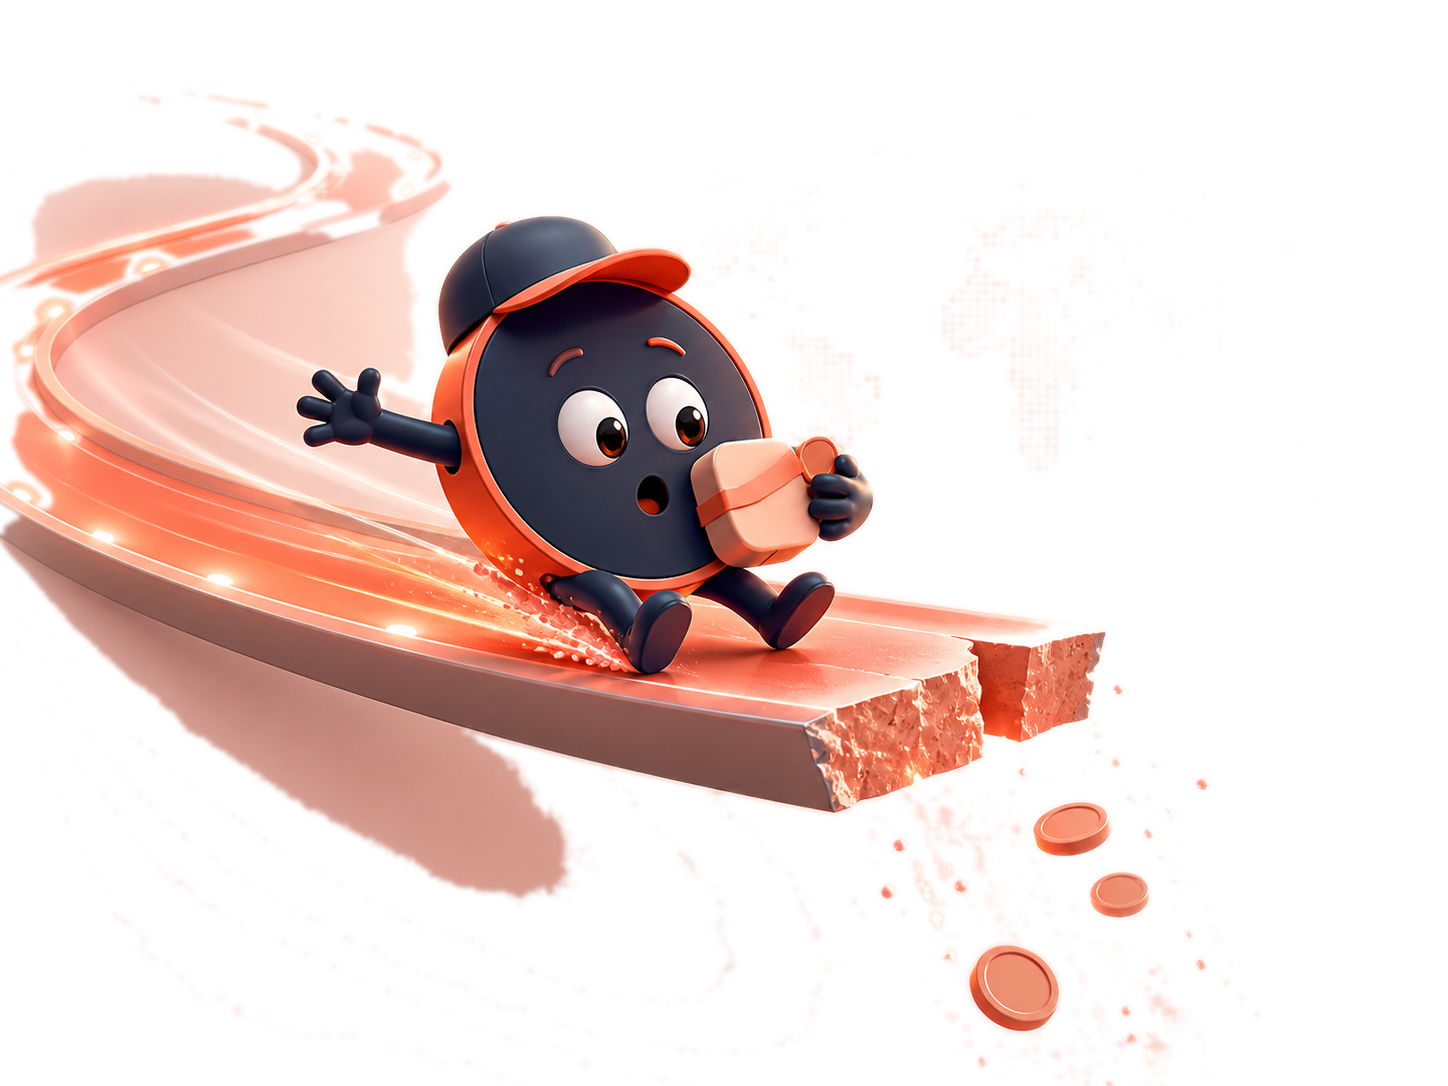
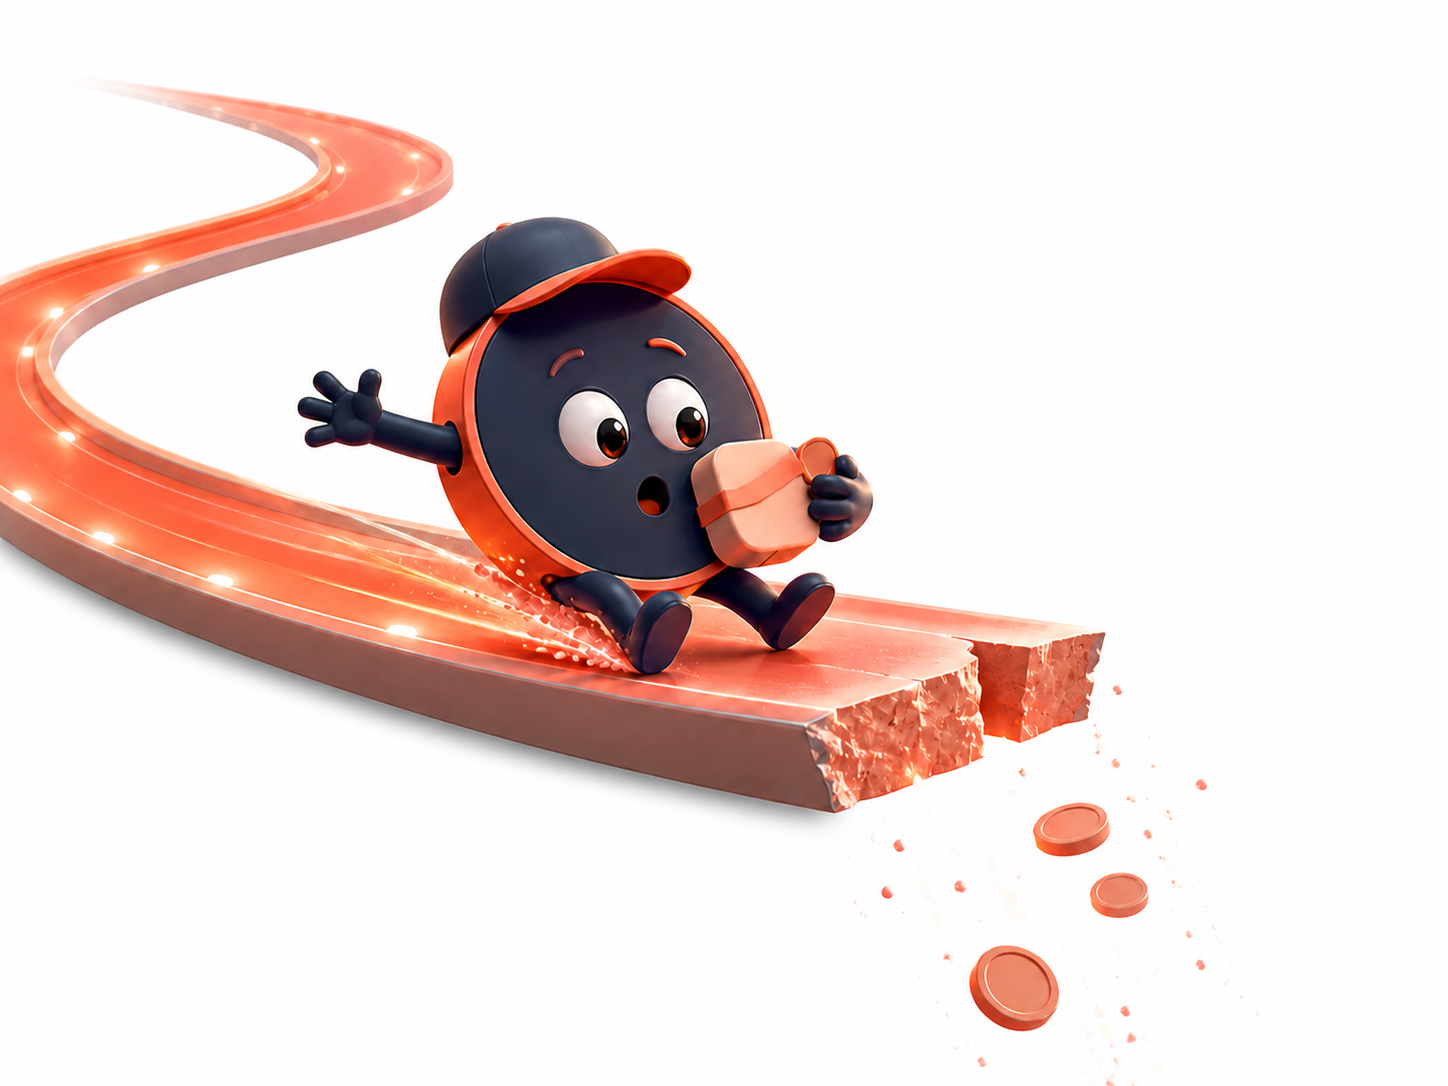
404: картинка на чистом белом фоне от Игоря — ложится бесшовно без вырезки

diff --git a/404.html b/404.html
@@ -47,7 +47,7 @@
     <section class="section nf">
       <div class="container">
         <div class="nf-inner">
-          <img class="nf-img" src="/assets/404-coin.png?v=2" alt="A courier coin skidding to a stop where the money route runs out" width="1448" height="1086" fetchpriority="high" decoding="async">
+          <img class="nf-img" src="/assets/404-coin.png?v=3" alt="A courier coin skidding to a stop where the money route runs out" width="1448" height="1086" fetchpriority="high" decoding="async">
           <p class="nf-eyebrow">Error 404</p>
           <h1>This page took a wrong turn</h1>
           <p>The page you are looking for could not be found &mdash; the link may be broken or it may have moved. Let&rsquo;s get you back on route.</p>
